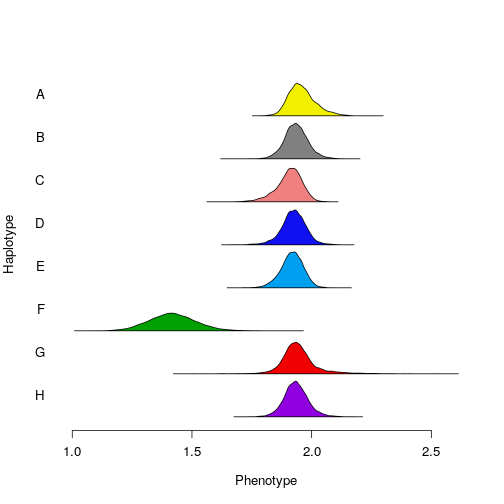
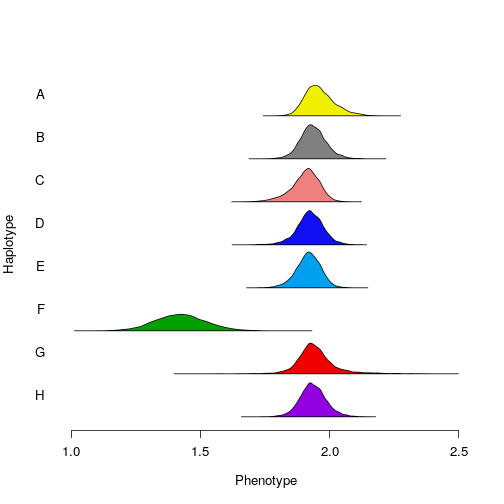
updated slides (again)

diff --git a/sassetti-lab-February-2020/slides.html b/sassetti-lab-February-2020/slides.html
@@ -14,7 +14,7 @@ class: center, middle, inverse, title-slide
 # Enhancing QTL mapping power with allelic series
 ### Fred Boehm
 ### U. Mass. Medical School
-### February 26, 2020 (updated: 2020-02-25)
+### February 26, 2020 (updated: 2020-02-26)
 
 ---
 
@@ -93,7 +93,7 @@ p_{H}b_H +
 
 - Thousands of samples to empirically approximate "posterior" distribution 
 - Outputs all needed information from every sample  
-  - allelic configuration 
+  - allelic series  
   - allelic effects 
 - Analyst then chooses how to summarize samples  
 
@@ -103,7 +103,7 @@ p_{H}b_H +
 
 ---
 
-# TIMBR examples
+# TIMBR examples (Spleen CFU on Chr 2)
 
 
 
@@ -123,19 +123,23 @@ p_{H}b_H +
 ![](slides_files/figure-html/unnamed-chunk-3-1.png)&lt;!-- --&gt;
 
 
+```r
+results[3] %&gt;% purrr::map(.f = function(x)head(x$p.M.given.y))
+```
+
 ```
 ## [[1]]
 ## 
 ## 0,0,0,0,0,1,0,0 0,1,1,1,1,2,1,1 0,0,1,0,0,2,0,0 0,0,0,0,0,1,2,0 0,0,0,0,1,2,0,0 
-##          0.3473          0.0385          0.0360          0.0262          0.0148 
-## 0,0,0,1,0,2,0,0 
-##          0.0140
+##          0.3246          0.0410          0.0374          0.0271          0.0150 
+## 0,1,1,1,1,2,0,1 
+##          0.0147
 ```
 
 
 ---
 
-# Importance of inferring allelic series
+# Why infer allelic series?
 
 - Knowing allelic series in one cohort, like CC, may inform QTL mapping in a second cohort, like DO (and vice versa)
 
@@ -172,7 +176,7 @@ p_{H}b_H +
 # Diversity Outbred data
 
 - Kurtz and Elkins (FDA):
-  - 344 DO mice 
+  - 344 DO mice (initially)
   - GigaMUGA-derived genotypes
   - 9 traits: 
       - Survival days
@@ -195,7 +199,26 @@ p_{H}b_H +
 
 ---
 
-# Example
+# Example with DO and CC
+
+- Per CC TIMBR results, collapse probabilities per F:ABCDEGH allelic series  
+- QTL scan with collapsed probabilities  
+- DO have a survival days QTL on Chr 5
+    - 8-allele scan: `\(LOD = 6.9\)`, $p &lt; $
+    - 2-allele scan: `\(LOD = 6.1\)`, `\(p &lt; 0.001\)`
+
+
+
+
+
+
+![](slides_files/figure-html/unnamed-chunk-7-1.png)&lt;!-- --&gt;
+
+
+
+
+
+
 
 
 
@@ -206,9 +229,17 @@ p_{H}b_H +
 
 # Next steps
 
-1. Allelic series inferences and QTL mapping with simulated traits
-  a. Quantify QTL mapping power of our approach
-  
+1. Power study  
+  a. Allelic series inferences and QTL mapping with simulated traits  
+1. Inferences in DO, CC, and both  
+  a. Detect new QTL 
+1. Other applications of allelic series inferences:  
+  a. Hotspot refinement  
+  a. Multivariate mapping and pleiotropy testing  
+  a. Mediation analysis  
+
+
+
   
   
   
@@ -218,7 +249,6 @@ p_{H}b_H +
 
 1. Simulate traits in both cohorts (CC and DO)  
   a. Vary allelic series  
-      - number of alleles and configurations  
   b. Vary allelic effects (relative to error variance)  
   c. Vary QTL position  
   d. Don't vary prior hyperparameters  
